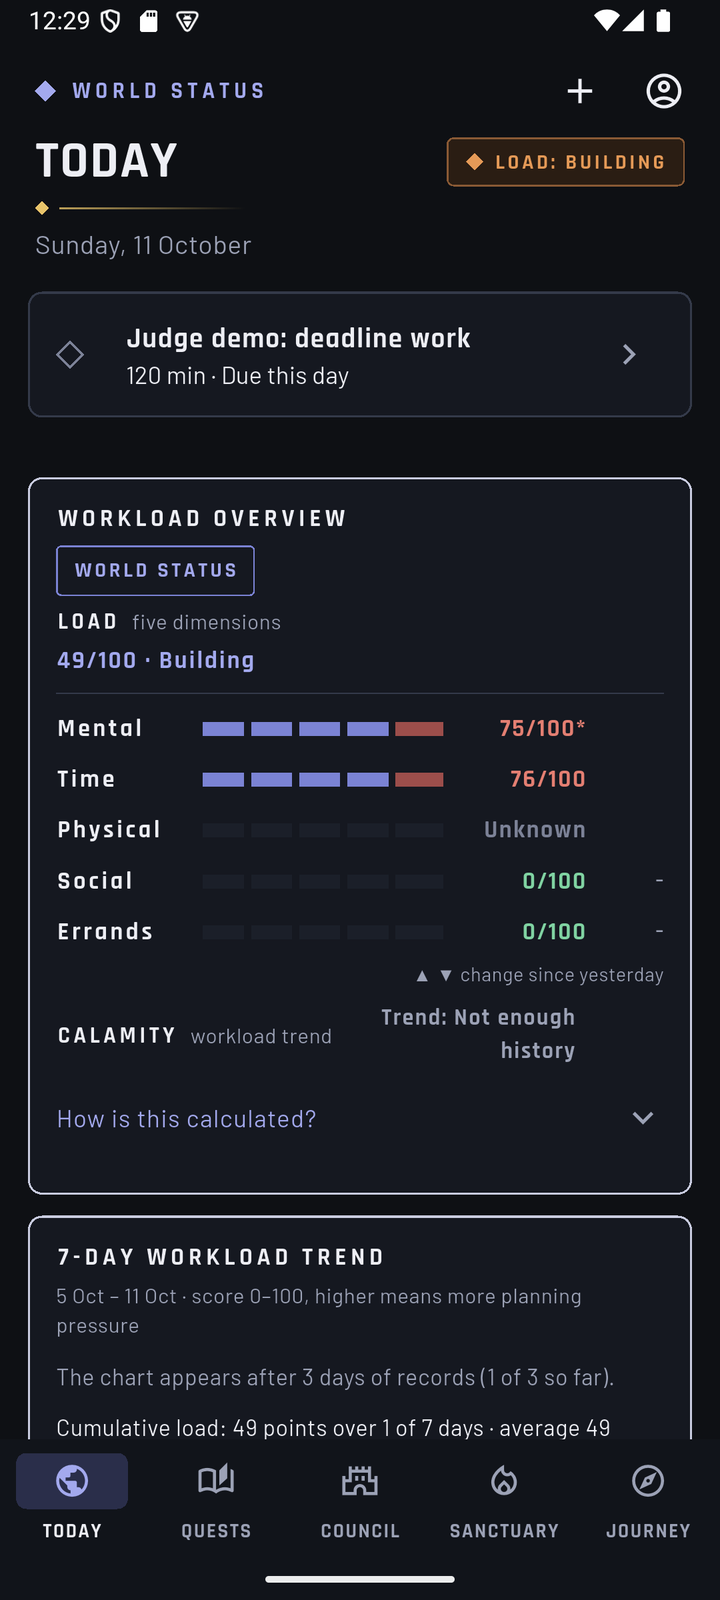
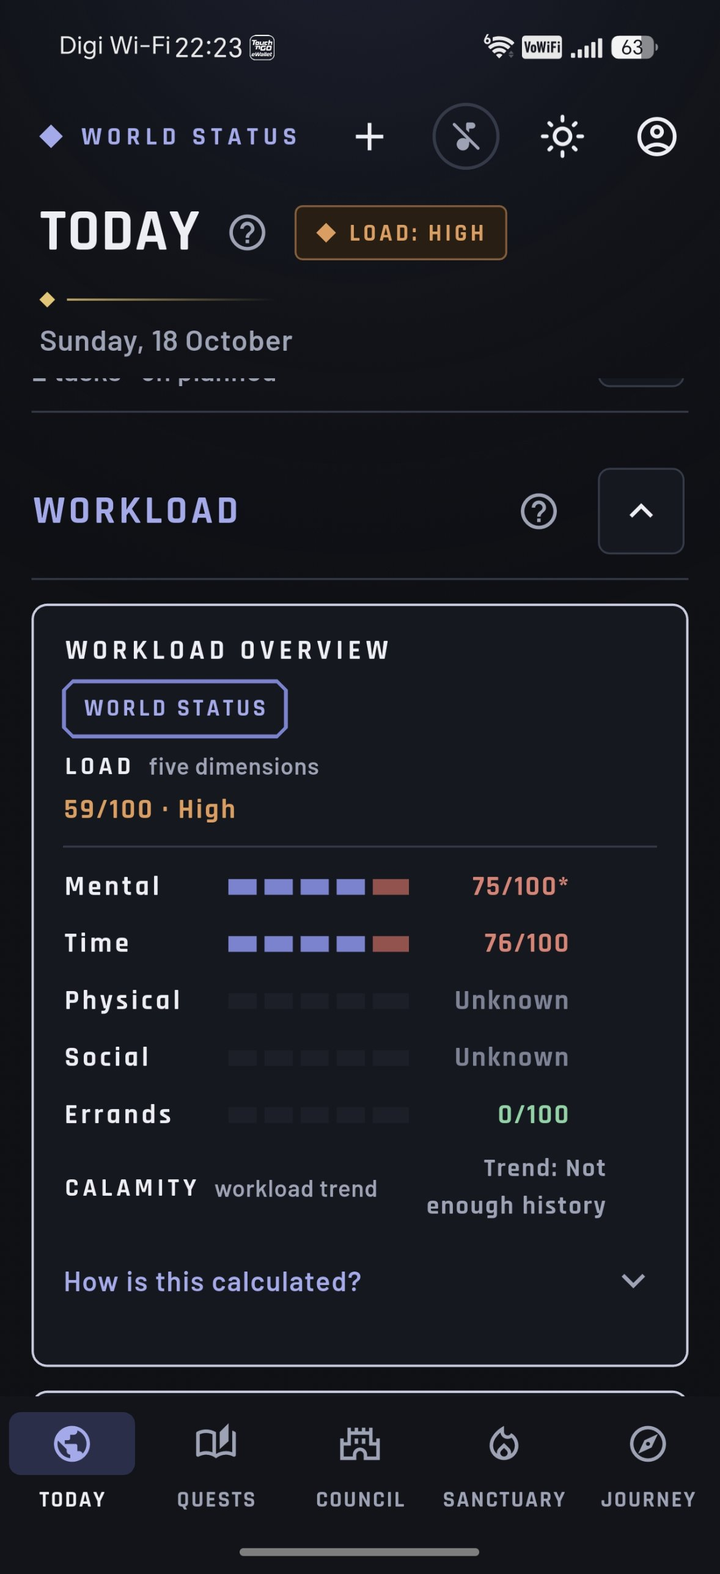
User guide: 23 new screenshots for v1.0.x UI (Add task/recovery buttons, ? help, sections, crest, profile edit) and Sanctuary text fixes

diff --git a/docs/USER_GUIDE.md b/docs/USER_GUIDE.md
@@ -13,8 +13,8 @@ This guide has three parts:
 - **Part C — Glossary, privacy, troubleshooting and limitations.**
 
 > **About the screenshots.** They were taken on a team test account that holds the same
-> sample data as the judge account, on a day called *Sunday 11 October*. On the judge
-> account the sample day is **Sunday 1 November 2026**; everything else looks the same.
+> sample data as the judge account, so the dates in them differ. On the judge account the
+> sample day is **Sunday 1 November 2026**; everything else looks the same.
 
 ---
 
@@ -174,7 +174,7 @@ release build; reinstall from the release link.
    here by a plan**, and the day still fits. Back on the sample day, the report shows the
    **60 min** that stayed there, and the day is no longer over capacity.
 
-<img src="images/guide/13_today_after_confirm.png" width="200" alt="The next day after confirming">
+<img src="images/guide/13_today_after_confirm.png" width="200" alt="The sample day after confirming: 60 min of the report stays, the day fits">
 
 ## Step 5 — Undo the plan (COUNCIL → Plan history)
 
@@ -218,7 +218,11 @@ music is on you hear a soft crackle that stops when you leave the page.
 3. **Something to do with it** lists optional ideas (Short walk, Phone-free rest, Sleep
    preparation, Grounding exercise, Reflection prompt, Visit a campus support service,
    Something else). The slot is protected whether or not you choose one.
-4. Tap **Save**. The slot appears as **Protected time · TIME RESERVED**.
+4. Tap **Save**. The slot appears under **All recovery slots** as **Free rest time** (or the
+   activity you chose) with the tag **TIME RESERVED** and *30m held clear*. Your next
+   protected slot is also shown at the top under **Next rest**, with its day and time.
+   Once a slot has started, **Mark activity done** records it (before then the button reads
+   *Mark done after it starts*); **Undo activity done** reverses it.
 5. **Please remove it afterwards**: open its **⋮** menu → **Remove** → **Remove**. A slot on the
    next day would use the free time that the Council plan in step 4 needs.
 
@@ -338,7 +342,8 @@ There are no streaks, rankings or penalties for skipping.
 | Rest camp | Tent and campfire; the sky follows the clock. Still picture when animations are turned off. |
 | **Breathe with the fire** | One minute of guided breathing (4 s in, 4 s hold, 4 s out); optional and never recorded. |
 | **Add recovery time** | Opens *Protect recovery time* with free-time suggestions. |
-| Slot card | *Protected time*, the time, **TIME RESERVED**; **⋮ Edit/Remove**; *Activity done* once it has started. |
+| **Next rest** | Your next protected slot: day, time (for example *11:00 AM – 11:30 AM*), **PROTECTED** and *held clear. Nothing will be scheduled into it.* |
+| **All recovery slots** | Each slot card: **Free rest time** or the chosen activity, the day and time, **TIME RESERVED**; **⋮ Edit/Remove**; **Mark activity done** once it has started (**ACTIVITY DONE**, with **Undo activity done**). |
 | Footer | Skipping has no penalty; rest does not change scores; not a medical service. |
 
 ## JOURNEY (Weekly reflection)
